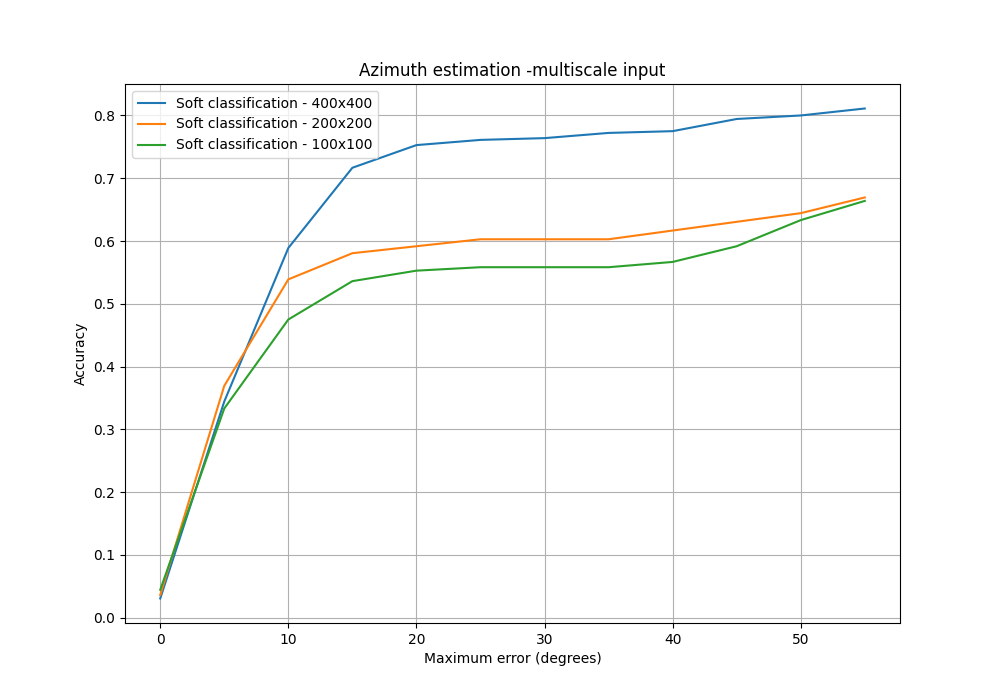
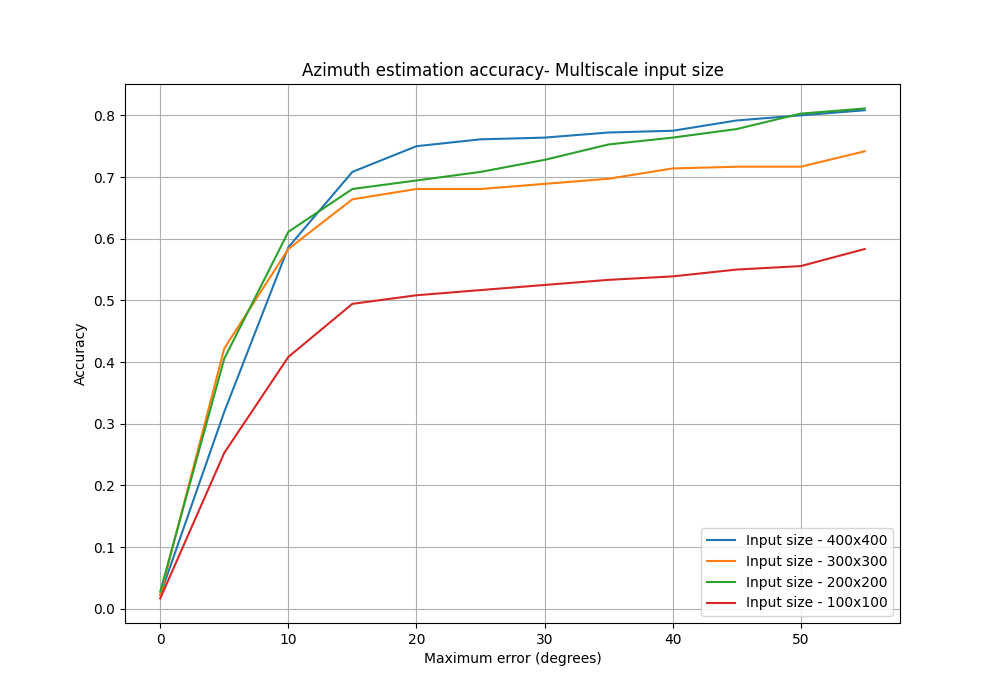
commit

diff --git a/viewpoint-estimation/results/result.py b/viewpoint-estimation/results/result.py
@@ -1,36 +1,77 @@
 import numpy as np
 from matplotlib import pyplot as plt
 
+print("INFO: Plotting...")
 thresholds = [theta for theta in range(0, 60, 5)]
 
-regression = [0.0000, 0.0639,  0.1278 , 0.1750, 0.2167, 0.2500, 0.3028 , 0.3694 , 0.4333 , 0.5028, 0.5722, 0.6111] 
-knn = [0.0083, 0.0806, 0.2222, 0.3472, 0.4583, 0.5222, 0.5778, 0.6,  0.6083, 0.6222, 0.6333, 0.6416]
-soft_classification = [0.0306, 0.3444, 0.5889, 0.7167, 0.7528, 0.7611, 0.7639, 0.7722, 0.7750, 0.7944, 0.8000,0.8111]
-hard_classification = [0.0306, 0.2194, 0.3416, 0.4111, 0.4639, 0.5139, 0.55, 0.5722, 0.5917, 0.625, 0.6361, 0.6417]
-soft_classification_200x200 = [0.0361, 0.3694, 0.5389,0.5806, 0.5917, 0.6028, 0.6028, 0.6028, 0.6167, 0.6306, 0.6444, 0.6694]
-soft_classification_100x100 = [0.0444, 0.3333, 0.4750, 0.5361, 0.5528, 0.5583, 0.5583, 0.5583, 0.5667, 0.5917, 0.6333, 0.6639 ]
+medErr_regression = 45.3841
+acc_regression = [0.0000, 0.0528, 0.1250, 0.1694, 0.2056, 0.2444, 0.3083, 0.3722, 0.4361, 0.4944, 0.5556, 0.6194]
+medErr_knn =  23.5
+acc_knn = [0.0056, 0.0778, 0.2111, 0.3222, 0.4500, 0.5167, 0.5778, 0.5972, 0.6083, 0.6139, 0.6333, 0.6417]
+medErr_soft_classification = 9.0
+acc_soft_classification = [0.0222, 0.3194, 0.5861, 0.7083, 0.7500, 0.7611, 0.7639, 0.7722, 0.7750, 0.7917, 0.8000, 0.8083]
+medErr_hard_classification = 19.0
+acc_hard_classification = [0.0139, 0.2083, 0.3667, 0.4556, 0.5056, 0.5389, 0.5611, 0.5917, 0.6083, 0.6167, 0.6250, 0.6333]
+medErr_soft_classification_300x300 = 7.0
+acc_soft_classification_300x300 = [0.0222, 0.4222, 0.5833, 0.6639, 0.6806, 0.6806, 0.6889,  0.6972, 0.7139, 0.7167, 0.7167, 0.7417]
+
+medErr_soft_classification_200x200 = 7.0
+acc_soft_classification_200x200 = [0.0278, 0.4056, 0.6111, 0.6806, 0.6944, 0.7083, 0.7278, 0.7528, 0.7639, 0.7778, 0.8028, 0.8111]
+medErr_soft_classification_100x100 = 15.5
+acc_soft_classification_100x100 = [0.0167, 0.2528, 0.4083, 0.4944, 0.5083, 0.5167, 0.5250, 0.5333, 0.5389, 0.5500, 0.5556, 0.5833]
 
 plt.figure(figsize=[10, 7])
-plt.title("Azimuth estimation")
+plt.title("Azimuth estimation - Accuracy")
 plt.ylabel("Accuracy")
 plt.xlabel("Maximum error (degrees)")
 
-plt.plot(thresholds, regression, label="Regression")
-plt.plot(thresholds, knn, label="KNN")
-plt.plot(thresholds, soft_classification, label="Soft classification")
-plt.plot(thresholds, hard_classification, label="Hard classification")
-plt.legend(loc="upper left")
+plt.plot(thresholds, acc_regression, label="Regression")
+plt.plot(thresholds, acc_knn, label="KNN")
+plt.plot(thresholds, acc_soft_classification, label="Soft classification")
+plt.plot(thresholds, acc_hard_classification, label="Hard classification")
+plt.legend(loc="lower right")
 plt.grid(True)
 plt.savefig("azimuth_accuracy.png")
 
 plt.figure(figsize=[10, 7])
-plt.title("Azimuth estimation -multiscale input")
+plt.title("Azimuth estimation accuracy- Multiscale input size")
 plt.ylabel("Accuracy")
 plt.xlabel("Maximum error (degrees)")
 
-plt.plot(thresholds, soft_classification, label="Soft classification - 400x400")
-plt.plot(thresholds, soft_classification_200x200, label="Soft classification - 200x200")
-plt.plot(thresholds, soft_classification_100x100, label="Soft classification - 100x100")
-plt.legend(loc="upper left")
+plt.plot(thresholds, acc_soft_classification, label="Input size - 400x400")
+plt.plot(thresholds, acc_soft_classification_300x300, label="Input size - 300x300")
+plt.plot(thresholds, acc_soft_classification_200x200, label="Input size - 200x200")
+plt.plot(thresholds, acc_soft_classification_100x100, label="Input size - 100x100")
+plt.legend(loc="lower right")
 plt.grid(True)
 plt.savefig("azimuth_accuracy_multiscale.png")
+
+
+medErrs = [medErr_regression, medErr_knn, medErr_hard_classification, medErr_soft_classification]
+
+medErrs_multiscale = [medErr_soft_classification, medErr_soft_classification_300x300, medErr_soft_classification_200x200, medErr_soft_classification_100x100]
+
+plt.figure(figsize=[10, 7])
+plt.title("Azimuth estimation - Median Error")
+plt.ylabel("Median Error (degrees)")
+plt.bar(0, medErrs[0], color="b", label="Regression")
+plt.bar(1, medErrs[1], color="orange", label="KNN")
+plt.bar(2, medErrs[2], color="r", label="Hard classification")
+plt.bar(3, medErrs[3], color="g", label="Soft classification")
+plt.xticks([0, 1, 2, 3], [])
+plt.legend(loc="upper right")
+plt.savefig("azimuth_mederr.png")
+
+plt.figure(figsize=[10, 7])
+plt.title("Azimuth estimation Median Error - Multiscale input size")
+plt.ylabel("Median Error (degrees)")
+plt.bar(0, medErrs_multiscale[0], color="b", label="Input size - 400x400")
+plt.bar(1, medErrs_multiscale[1], color="orange", label="Input size - 300x300")
+plt.bar(2, medErrs_multiscale[2], color="g", label="Input size - 200x200")
+plt.bar(3, medErrs_multiscale[3], color="r", label="Input size - 100x100")
+#plt.bar(3, medErrs_multiscale[3], color="g", label="Soft classification")
+plt.xticks([0, 1, 2, 3], [])
+plt.legend(loc="upper left")
+plt.savefig("azimuth_mederr_multiscale.png")
+
+print("Done!")

diff --git a/viewpoint-estimation/regression/cnn/main.py b/viewpoint-estimation/regression/cnn/main.py
@@ -4,6 +4,7 @@ import numpy as np
 import h5py
 import argparse
 from matplotlib import pyplot as plt
+from utils import geodesic_distance, rotation_matrix
 
 
 def get_arguments():
@@ -53,6 +54,7 @@ args = get_arguments()
 
 
 # Load dataset
+print("INFO: Loading dataset...")
 DIR = "/scratch/hnkmah001/Datasets/ctfullbody/larger_fov_with_background/"
 x_train, y_train, x_val, y_val, x_test, y_test = read_dataset(DIR+'chest_fov_400x400_sparse_labels.h5')
 train_data = tf.data.Dataset.from_tensor_slices((x_train, y_train)).shuffle(len(x_train)).batch(args.batch_size) 
@@ -150,41 +152,33 @@ else:
     checkpoint.restore(manager.checkpoints[0])
 
     pred = []
-    test_loss = 0.
-    count = 0
     for test_images, test_labels in tqdm(test_data.map(preprocess, 
                                          num_parallel_calls=tf.data.experimental.AUTOTUNE), desc="Validation"):
-            test_loss += test_step(test_images, test_labels)
             pred.append((180./np.pi)*model(test_images)) # Convert angles from radians to degrees
-            count += 1
-    test_loss = test_loss/tf.constant(count, dtype=tf.float32)
-    print("Test Loss: {:.4f}".format(test_loss))
+    
 
     gt = y_test.astype(float)
     pred = np.array(pred)
     pred = np.squeeze(pred)
-    pred_err1 = np.abs(pred - gt) 
-    pred_err2 = np.abs(-360 + pred - gt)
-    pred_err3 = np.abs(360 + pred - gt)
-    thresholds = [theta for theta in range(0, 60, 5)]
-    acc_list = []
 
-    print("gt:", gt)
-    print("pred:", pred)
+    error1 = np.abs(pred - gt) % 360      
+    error2 = [geodesic_distance(rotation_matrix(gt[i]), rotation_matrix(pred[i])) for i in range(len(gt))]
+    with open("predictions.txt", "w") as f:
+        for i in range(len(gt)):    
+            print("gt = {:.4f}\t pred = {:.4f}\t error (abs) = {:.4f} \t error (geodesic)  = {:.4f}".format(gt[i], 
+                 pred[i], error1[i], error2[i]), file=f)
     
+    print("\n\nMedian Error = {:.4f}".format(np.median(np.array(error2))))
+    with open("regression.txt", "w") as f:
+        print("Median Error = {:.4f}".format(np.median(np.array(error2))), file=f)
+
+    acc_list2 = []
+    thresholds = [theta for theta in range(0, 60, 5)] 
     for theta in thresholds:
-
-        acc_bool = np.array([pred_err1[i] <= theta or pred_err2[i] <= theta or pred_err3[i] <= theta for i in range(len(pred_err1))])
-        acc = np.array([int(i) for i in acc_bool])
-        acc = np.mean(acc)
-        acc_list.append(acc)
-        print("Accuracy at theta = {} is: {:.4f}".format(theta, acc))
-
+        acc_bool2 = np.array([error2[i] <= theta  for i in range(len(error2))])
+        acc2 = np.mean(acc_bool2)
+        acc_list2.append(acc2)
+        print("Accuracy at theta = {} is: {:.4f}".format(theta, acc2))
+        with open("regression.txt", "a") as f:
+            print("Accuracy at theta = {} is: {:.4f}".format(theta, acc2), file=f)
         
-    plt.figure()
-    plt.scatter(thresholds, acc_list)
-    plt.grid(True)
-    #plt.show()
-    plt.savefig("accuracy.png")
-    
-    

diff --git a/viewpoint-estimation/classification/knn/nn.py b/viewpoint-estimation/classification/knn/nn.py
@@ -13,6 +13,7 @@ import seaborn as sns
 import sklearn
 import matplotlib.pyplot as plt
 from keras.utils import multi_gpu_model
+from utils import geodesic_distance, rotation_matrix
 
 
 with K.name_scope("Encoder"):
@@ -105,59 +106,22 @@ for i in tqdm(range(len(test_img)), desc="Testing"):
     knearest_labels = [train_label[j] for j in knearest_dist_indices]
     pred.append(most_common(knearest_labels))
 
+gt = np.array(test_label)
+pred = np.array(pred)
 
-print(test_label)
-print(pred)
-accuracy = accuracy_score(y_true=test_label, y_pred=pred)
-
-print("Accuracy = ", accuracy)
-
-pred_err1 = np.abs(np.array(test_label) - np.array(pred)) 
-pred_err2 = np.abs(-360 + np.array(test_label) - np.array(pred))
-thresholds = [theta for theta in range(0, 60, 5)]
-acc_list = []
-#theta = 10
-for theta in thresholds:
-
-    acc_bool = np.array([pred_err1[i] <= theta or pred_err2[i] <= theta for i in range(len(pred_err1))])
-
-    acc = np.array([int(i) for i in acc_bool])
-    acc = np.mean(acc)
-    acc_list.append(acc)
-    print("Accuracy at theta = {} is: {}".format(theta, acc))
-
-    pred_df = pd.DataFrame()
-    pred_df["image"] = test_img
-    pred_df["label"] = test_label
-    pred_df["prediction"] = pred
-    pred_df["match"] = acc_bool
-    pred_df.to_csv("prediction_360.csv", index=False, sep=",")
-
+error2 = [geodesic_distance(rotation_matrix(gt[i]), rotation_matrix(pred[i])) for i in range(len(gt))]
     
+print("\n\nMedian Error = {:.4f}".format(np.median(np.array(error2))))
+with open("regression.txt", "w") as f:
+    print("Median Error = {:.4f}".format(np.median(np.array(error2))), file=f)
 
-    n = 100  
-    plt.figure(figsize=(300, 10))
-    for i in range(n):
-        plt.subplot(2, n, i + 1)
-        gtimg = cv.imread(test_img[i], 0)
-        plt.imshow(gtimg)
-        plt.gray()
-        plt.title("GT: {} deg".format(str(i+1)))
-
-        plt.subplot(2, n, i + 1 + n)
-        predimg = cv.imread(train_img[pred[i]], 0)
-        plt.imshow(predimg)
-        plt.gray()
-        title_obj = plt.title("Pred: {} deg".format(str(pred[i])))
-        if acc_bool[i]:
-            plt.setp(title_obj, color='b') 
-        else: 
-            plt.setp(title_obj, color='r') 
-    plt.show()
-    plt.savefig("predictions{}.png".format(str(theta)))
-
-plt.figure()
-plt.scatter(thresholds, acc_list)
-plt.grid(True)
-plt.show()
-plt.savefig("accuracy.png")
+acc_list2 = []
+thresholds = [theta for theta in range(0, 60, 5)]
+for theta in thresholds:
+    acc_bool2 = np.array([error2[i] <= theta  for i in range(len(error2))])
+    acc2 = np.mean(acc_bool2)
+    acc_list2.append(acc2)
+    print("Accuracy at theta = {} is: {:.4f}".format(theta, acc2))
+    with open("regression.txt", "a") as f:
+        print("Accuracy at theta = {} is: {:.4f}".format(theta, acc2), file=f)
+    
